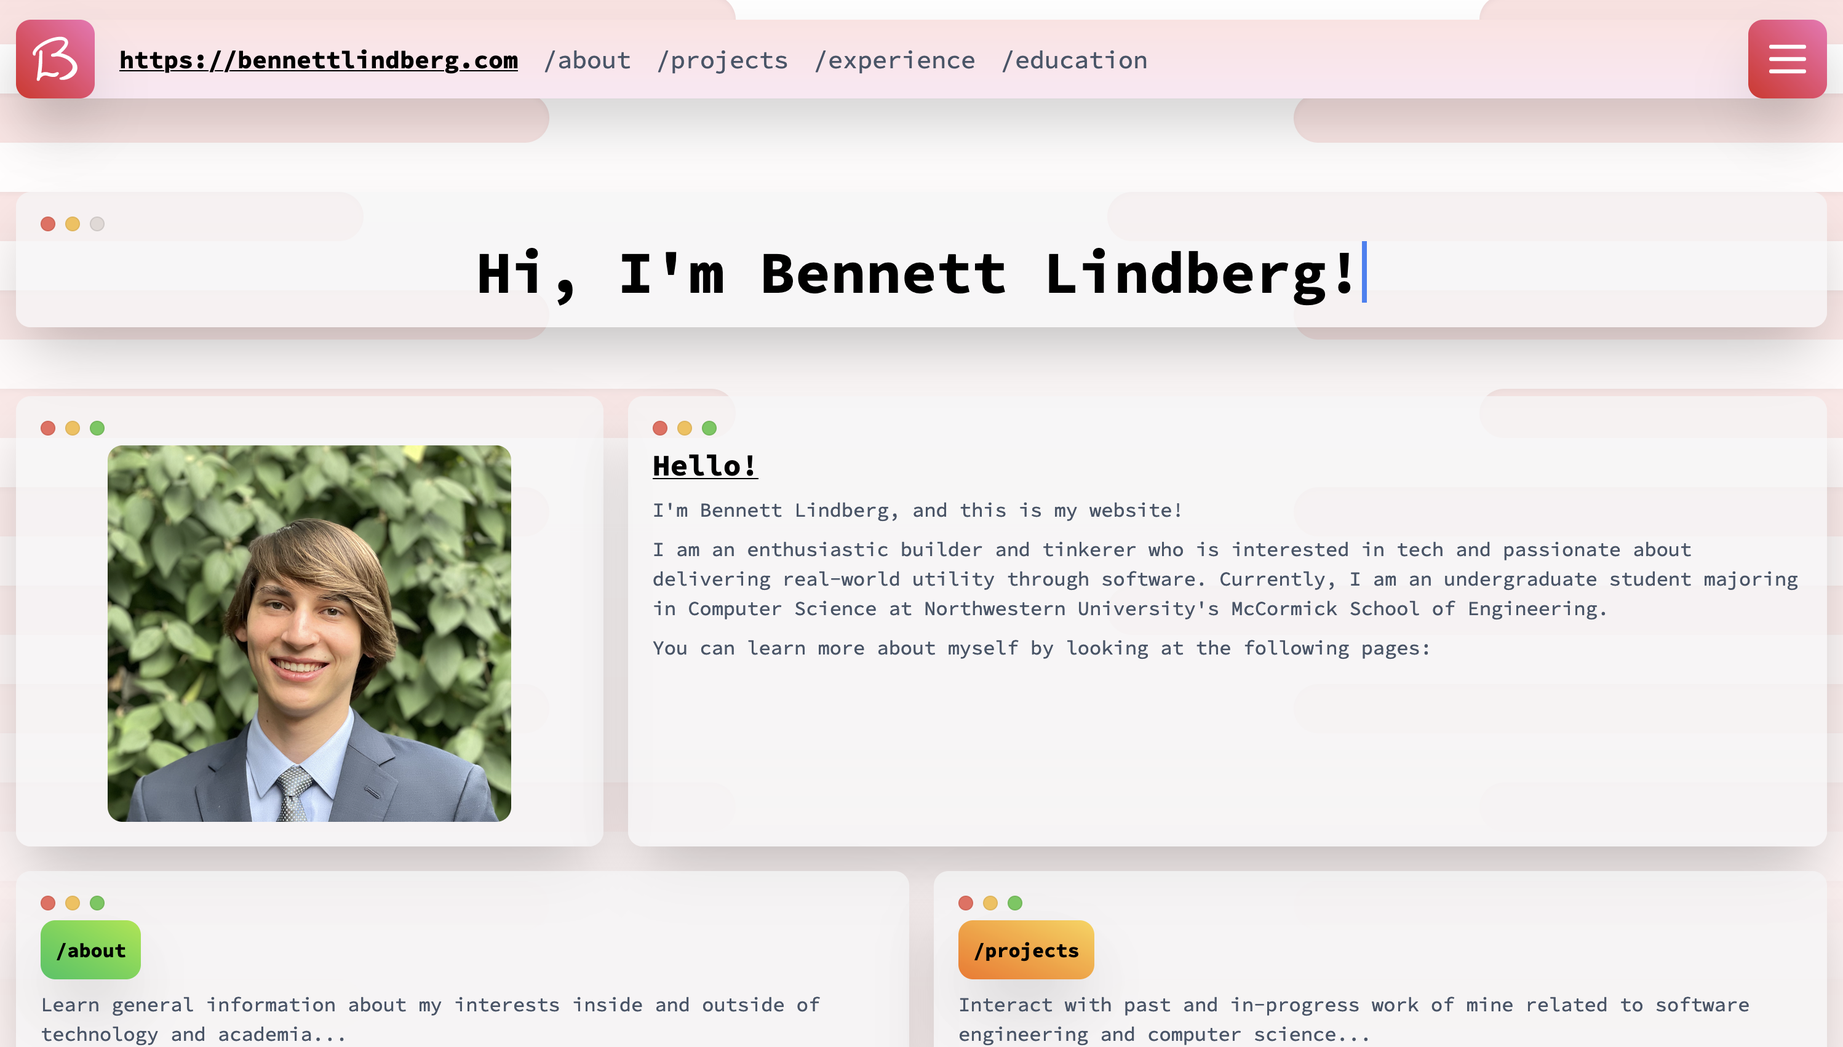
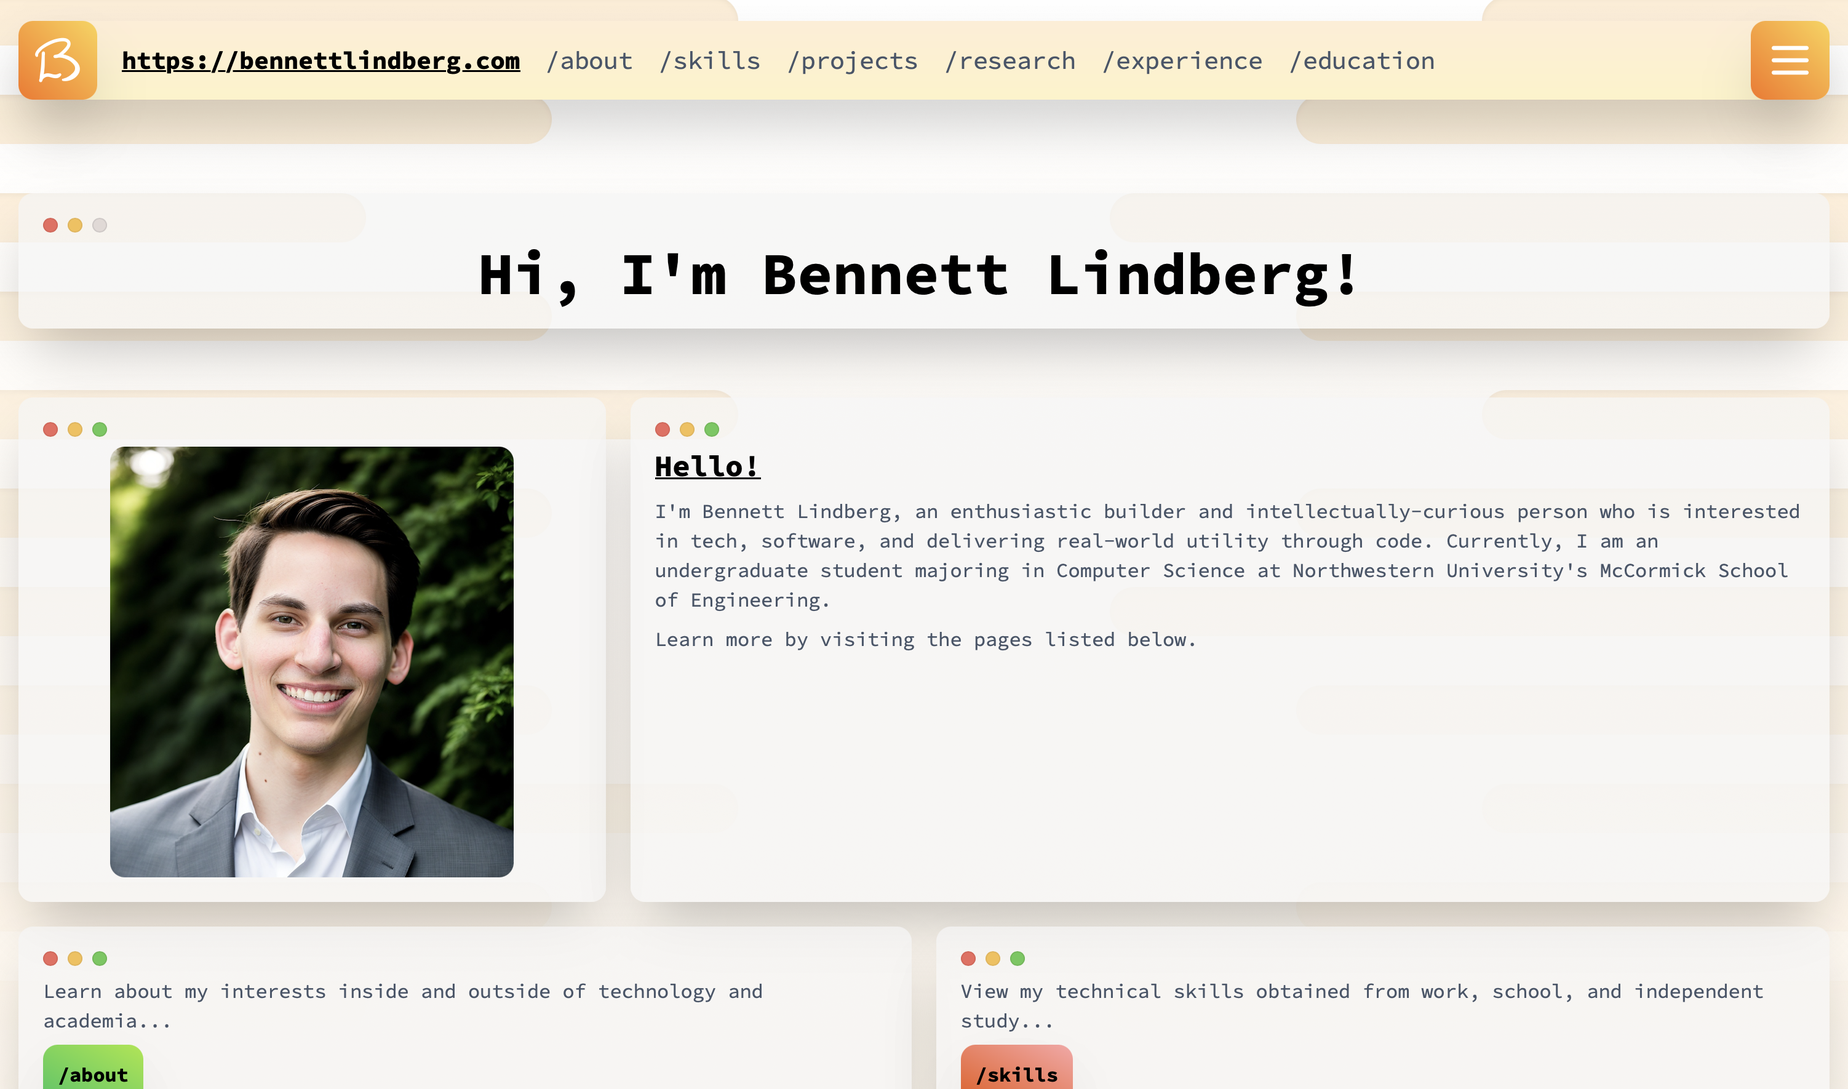
update for winter 2025

diff --git a/src/components/pages/HomePage.tsx b/src/components/pages/HomePage.tsx
@@ -60,18 +60,15 @@ export default function HomePage() {
                             Hello!
                         </Heading>
                         <PlainText>
-                            I'm Bennett Lindberg, and this is my website!
+                            I'm Bennett Lindberg, an enthusiastic builder and intellectually-curious person who is interested in tech, software, and delivering real-world utility through code. Currently, I am an undergraduate student majoring in Computer Science at Northwestern University's McCormick School of Engineering.
                         </PlainText>
                         <PlainText>
-                            I am an enthusiastic builder and intellectually curious person who is interested in tech, software, and delivering real-world utility through my projects. Currently, I am an undergraduate student majoring in Computer Science at Northwestern University's McCormick School of Engineering.
-                        </PlainText>
-                        <PlainText>
-                            You can learn more about myself by looking at the following pages:
+                            Learn more by visiting the pages listed below.
                         </PlainText>
                     </ItemWindow>
                     <ItemWindow standardWidth="1/2">
                         <PlainText>
-                            Learn general information about my interests inside and outside of technology and academia...
+                            Learn about my interests inside and outside of technology and academia...
                         </PlainText>
                         <div className={`font-bold bg-gradient-to-tr from-green-500 to-lime-400 hover:to-green-500 hover:from-lime-400 rounded-xl p-3 mb-2 w-fit shadow-2xl dark:shadow-gray-900`} onClick={() => {window.scrollTo({ top: 0, left: 0, behavior: "smooth" }); navigate("/about");}}>
                             /about
@@ -79,7 +76,7 @@ export default function HomePage() {
                     </ItemWindow>
                     <ItemWindow standardWidth="1/2">
                         <PlainText>
-                            Look at a list of the technical skills I have obtained through academic work, independent study, and previous technical roles...
+                            View my technical skills obtained from work, school, and independent study...
                         </PlainText>
                         <div className={`font-bold bg-gradient-to-tr from-orange-600 to-red-300 hover:to-orange-600 hover:from-red-300 rounded-xl p-3 mb-2 w-fit shadow-2xl dark:shadow-gray-900`} onClick={() => {window.scrollTo({ top: 0, left: 0, behavior: "smooth" }); navigate("/skills");}}>
                             /skills
@@ -87,7 +84,7 @@ export default function HomePage() {
                     </ItemWindow>
                     <ItemWindow standardWidth="1/2">
                         <PlainText>
-                            Interact with past and in-progress works of mine related to software engineering and computer science...
+                            See my past and in-progress design and software engineering projects...
                         </PlainText>
                         <div className={`font-bold bg-gradient-to-tr to-teal-400 from-blue-500 hover:from-teal-400 hover:to-blue-500 rounded-xl p-3 mb-2 w-fit shadow-2xl dark:shadow-gray-900`} onClick={() => {window.scrollTo({ top: 0, left: 0, behavior: "smooth" }); navigate("/projects");}}>
                             /projects
@@ -95,7 +92,7 @@ export default function HomePage() {
                     </ItemWindow>
                     <ItemWindow standardWidth="1/2">
                         <PlainText>
-                            Read my published computer science research and explore previous research-adjacent works of mine...
+                            Explore previous research and research-adjacent works of mine...
                         </PlainText>
                         <div className={`font-bold bg-gradient-to-tr to-emerald-400 from-teal-600 hover:from-emerald-400 hover:to-teal-600 rounded-xl p-3 mb-2 w-fit shadow-2xl dark:shadow-gray-900`} onClick={() => {window.scrollTo({ top: 0, left: 0, behavior: "smooth" }); navigate("/research");}}>
                             /research
@@ -103,7 +100,7 @@ export default function HomePage() {
                     </ItemWindow>
                     <ItemWindow standardWidth="1/2">
                         <PlainText>
-                            See my teaching and software engineering work experience applicable to future roles in technology industries...
+                            View my teaching and software engineering work experience...
                         </PlainText>
                         <div className={`font-bold bg-gradient-to-tr from-red-600 to-pink-400 hover:to-red-600 hover:from-pink-400 rounded-xl p-3 mb-2 w-fit shadow-2xl dark:shadow-gray-900`} onClick={() => {window.scrollTo({ top: 0, left: 0, behavior: "smooth" }); navigate("/experience");}}>
                             /experience
@@ -111,7 +108,7 @@ export default function HomePage() {
                     </ItemWindow>
                     <ItemWindow standardWidth="1/2">
                         <PlainText>
-                            View my education history and academic coursework related to computer science, software development, engineering, and design...
+                            Read about my education history and academic coursework...
                         </PlainText>
                         <div className={`font-bold bg-gradient-to-tr from-violet-700 to-indigo-400 hover:to-violet-700 hover:from-indigo-400 rounded-xl p-3 mb-2 w-fit shadow-2xl dark:shadow-gray-900`} onClick={() => {window.scrollTo({ top: 0, left: 0, behavior: "smooth" }); navigate("/education");}}>
                             /education

diff --git a/src/components/pages/EducationPage.tsx b/src/components/pages/EducationPage.tsx
@@ -75,16 +75,17 @@ export default function EducationPage() {
                     </ItemWindow>
                     <ItemWindow standardWidth="2/3">
                         <PlainText>
-                            Currently, I am completing my B.S. in Computer Science at Northwestern University in the McCormick School of Engineering. I am projected to finish my bachelor's degree in three years. At Northwestern, I have served as a Peer Mentor for several courses in the CS Department and achieved High Honors during my Fall 2022, Winter 2023, Spring 2023, Fall 2023, Winter 2024, and Spring 2024 quarters.
+                            Currently, I am completing my B.S. in Computer Science at Northwestern University in the McCormick School of Engineering. I am projected to finish my bachelor's degree in three years. At Northwestern, I have served as a Peer Mentor for several courses in the CS Department and achieved High Honors during my Fall 2022, Winter 2023, Spring 2023, Fall 2023, Winter 2024, Spring 2024, and Fall 2024 quarters.
                         </PlainText>
                         <SubSubHeading>
-                            Upcoming Coursework (Fall 2024):
+                            Upcoming Coursework (Winter 2025):
                         </SubSubHeading>
                         <PlainText>
                             <BulletList listElements={[
-                                "COMP_SCI 298: Computer Science Research Track",
-                                "COMP_SCI 330: Human-Computer Interaction",
-                                "COMP_SCI 343: Operating Systems",
+                                "COMP_SCI 310: Scalable Software Architectures",
+                                "COMP_SCI 340: Introduction to Computer Networking",
+                                "COMP_SCI 398: Research Track II (Programming Languages)",
+                                "COMP_SCI 496: Programming Languages Seminar (Winter 2025)",
                             ]}></BulletList>
                         </PlainText>
                         <SubSubHeading>
@@ -103,8 +104,8 @@ export default function EducationPage() {
                                 Mathematics:
                             </BulletGroupHeader>
                             <BulletList listElements={[
-                                "COMP_SCI 212: Mathematical Foundations of Computer Science I",
-                                "COMP_SCI 262: Mathematical Foundations of Computer Science II",
+                                "COMP_SCI 212: Formal Proof, Discrete Math, and Graph Theory",
+                                "COMP_SCI 262: Probability and Linear Algebra",
                             ]}></BulletList>
                             <BulletGroupHeader>
                                 Systems:
@@ -112,6 +113,7 @@ export default function EducationPage() {
                             <BulletList listElements={[
                                 "COMP_ENG 203: Introduction to Computer Engineering",
                                 "COMP_SCI 213: Introduction to Computer Systems",
+                                "COMP_SCI 343: Operating Systems",
                             ]}></BulletList>
                             <BulletGroupHeader>
                                 Algorithms:
@@ -124,14 +126,16 @@ export default function EducationPage() {
                                 Programming Languages:
                             </BulletGroupHeader>
                             <BulletList listElements={[
+                                "COMP_SCI 298: Research Track I (Programming Languages)",
                                 "COMP_SCI 321: Programming Languages",
                                 "COMP_SCI 424: Dynamics of Programming Languages",
-                                "COMP_SCI 496: Programming Languages Seminar",
+                                "COMP_SCI 496: Programming Languages Seminar (Spring 2024)",
                             ]}></BulletList>
                             <BulletGroupHeader>
                                 Miscellaneous:
                             </BulletGroupHeader>
                             <BulletList listElements={[
+                                "COMP_SCI 330: Human-Computer Interaction",
                                 "COMP_SCI 348: Artificial Intelligence",
                                 "COMP_SCI 396: Foundations of Security",
                             ]}></BulletList>
@@ -161,6 +165,13 @@ export default function EducationPage() {
                                 "DSGN 106-1: Design Thinking and Communication I",
                                 "DSGN 106-2: Design Thinking and Communication II",
                                 "DSGN 220: Design Sketching",
+                            ]}></BulletList>
+                            <BulletGroupHeader>
+                                Art:
+                            </BulletGroupHeader>
+                            <BulletList listElements={[
+                                "ART 210: Introduction to Drawing",
+                                "ART 220: Introduction to Painting",
                             ]}></BulletList>
                         </PlainText>
                     </ItemWindow>

diff --git a/src/components/pages/AboutPage.tsx b/src/components/pages/AboutPage.tsx
@@ -56,13 +56,13 @@ export default function AboutPage() {
                     </ItemWindow>
                     <ItemWindow standardWidth="2/3">
                         <PlainText>
-                            Hi! I'm Bennett Lindberg, a full-stack software engineer who is passionate about improving lives by constructing productive tools and streamlining procedures. Always enthusiastic about building, designing, and enhancing my work, I am a spirited engineer, programmer, and learner. Currently, I am an undergraduate Computer Science major at Northwestern University in the McCormick School of Engineering.
+                            Hi! I'm Bennett Lindberg, a full-stack software engineer who is passionate about improving lives by constructing productive tools and streamlining procedures. Currently, I am an undergraduate Computer Science major at Northwestern University in the McCormick School of Engineering. This summer, I will be joining Motorola Solutions' Secure Products Group as a full-time Software Engineer.
                         </PlainText>
                         <PlainText>
-                            I enjoy developing software applications for others to use, exploring new programming languages and technologies, and expanding my range of knowledge within the broader computer science field. I am often knee-deep reading through a textbook or technical documentation and would describe myself as focused, detail-attentive, and hard-working.
+                            I enjoy developing software applications for others to use, exploring new programming languages and technologies, and expanding my knowledge within the broader computer science field. I am focused, detail-attentive, and hard-working.
                         </PlainText>
                         <PlainText>
-                            Outside of computer science and software development, I enjoy solving logic puzzles, playing card games, swimming, watching Formula 1 races, talking with friends, and learning new things. I also enjoy learning about geography and have a bucket list of places to which I'd like to travel!
+                            Outside of computer science and software development, I enjoy creating digital art, watching Formula 1 races, playing card games, going to the gym, and learning new things. I am also interested in design, architecture, and geography, and I have a bucket list of places to which I'd like to travel.
                         </PlainText>
                     </ItemWindow>
                     <ItemWindow standardWidth="1/2">
@@ -70,7 +70,7 @@ export default function AboutPage() {
                             Contact Me
                         </SubHeading>
                         <PlainText>
-                            Feel free to contact me directly on LinkedIn or via the contact information associated with my LinkedIn profile!
+                            Feel free to contact me directly on LinkedIn or via the contact information associated with my LinkedIn profile.
                         </PlainText>
                         <div className={`font-bold bg-gradient-to-tr to-blue-400 from-blue-700 hover:from-blue-400 hover:to-blue-700 rounded-xl p-3 mb-2 w-fit shadow-2xl dark:shadow-gray-900`}>
                             <a href="https://www.linkedin.com/in/bennett-lindberg/" target="_blank">LinkedIn</a>
@@ -81,7 +81,7 @@ export default function AboutPage() {
                             Learn More
                         </SubHeading>
                         <PlainText>
-                            Visit the other pages of this site to learn more about myself or view my GitHub profile!
+                            Visit the other pages of this site to learn more about myself or view my GitHub profile.
                         </PlainText>
                         <div className="flex flex-row gap-x-2 flex-wrap">
                             <div className={`font-bold bg-gradient-to-tr from-orange-600 to-red-300 hover:to-orange-600 hover:from-red-300 rounded-xl p-3 mb-2 w-fit shadow-2xl dark:shadow-gray-900`} onClick={() => { window.scrollTo({ top: 0, left: 0, behavior: "smooth" }); navigate("/skills"); }}>

diff --git a/src/components/pages/ExperiencePage.tsx b/src/components/pages/ExperiencePage.tsx
@@ -103,10 +103,10 @@ export default function ExperiencePage() {
                     </ItemWindow>
                     <ItemWindow standardWidth="2/3">
                         <PlainText>
-                            This summer, I am working at Motorola Solutions as a Software Engineering Intern. Alongside my co-workers in the Secure Products Group at Motorola Solutions, I develop full-stack applications that help ensure critical communications are safe and secure.
+                            During the 2024 Summer, I worked at Motorola Solutions as a Software Engineering Intern with the Secure Products Group. I developed full-stack applications that ensure safe and secure critical communications.
                         </PlainText>
                         <PlainText>
-                            During my time at Motorola Solutions, I have worked in an Agile software development environment using a variety of technologies and paradigms, including Reactive Programming, Angular front-end development, Spring Boot application development, Apache Kafka high-volume messaging, and REST API development involving Server-Sent Events.
+                            During my internship, I worked in an Agile software development environment using a variety of technologies and paradigms, including Reactive Programming, Angular, Spring Boot, Apache Kafka, REST APIs, CI/CD pipelines, and PostgreSQL.
                         </PlainText>
                         <div className="flex flex-row flex-wrap gap-x-2 mt-2">
                             <div className={`font-bold bg-gradient-to-tr to-teal-400 from-blue-500 hover:from-teal-400 hover:to-blue-500 rounded-xl p-3 mb-2 w-fit shadow-2xl dark:shadow-gray-900`}>
@@ -123,19 +123,20 @@ export default function ExperiencePage() {
                                 Northwestern University
                             </SubHeading>
                             <PlainText>
-                                Computer Science Department Peer Mentor • January-June 2024
+                                Computer Science Department Peer Mentor • January 2024-Present
                             </PlainText>
                         </div>
                     </ItemWindow>
                     <ItemWindow standardWidth="2/3">
                         <PlainText>
-                            I currently work as a Peer Mentor in the Computer Science Department at Northwestern University. In this role, I have functioned as an undergraduate teaching assistant for several of the department's courses. My responsibilities include answering student questions, hosting office hours, and grading assignments and exams.
+                            I currently work as a Peer Mentor in the Computer Science Department at Northwestern University. In this role, I have functioned as an undergraduate teaching assistant for several of the department's courses. My responsibilities include hosting office hours, grading assignments and exams, and authoring new problem sets.
                         </PlainText>
                         <PlainText>
                             I have assisted with teaching the following courses: 
                             <BulletList listElements={[
                                 "COMP_SCI 214: Data Structures and Algorithms (Winter 2024)",
-                                "COMP_SCI 396: Foundations of Security (Spring 2024)"
+                                "COMP_SCI 396: Foundations of Security (Spring 2024)",
+                                "COMP_SCI 321: Programming Languages (Fall 2024, Winter 2025)",
                             ]}></BulletList>
                         </PlainText>
                         <PlainText>

diff --git a/src/components/pages/ProjectsPage.tsx b/src/components/pages/ProjectsPage.tsx
@@ -105,9 +105,6 @@ export default function ProjectsPage() {
                             Learn More:
                         </SubSubHeading>
                         <div className="flex flex-row flex-wrap gap-x-2 mt-2">
-                            <div className={`font-bold bg-gradient-to-tr to-teal-400 from-blue-500 hover:from-teal-400 hover:to-blue-500 rounded-xl p-3 mb-2 w-fit shadow-2xl dark:shadow-gray-900`}>
-                                <a href="https://swimeeter.com" target="_blank">Live Website</a>
-                            </div>
                             <div className={`font-bold bg-gradient-to-tr from-gray-500 to-slate-300 hover:to-gray-500 hover:from-slate-300 rounded-xl p-3 mb-2 w-fit shadow-2xl dark:shadow-gray-900`}>
                                 <a href="https://github.com/bennettlindberg/Swimeeter" target="_blank">GitHub Repository</a>
                             </div>
@@ -153,9 +150,6 @@ export default function ProjectsPage() {
                             Learn More:
                         </SubSubHeading>
                         <div className="flex flex-row flex-wrap gap-x-2 mt-2">
-                            <div className={`font-bold bg-gradient-to-tr from-violet-700 to-indigo-400 hover:to-violet-700 hover:from-indigo-400 rounded-xl p-3 mb-2 w-fit shadow-2xl dark:shadow-gray-900`}>
-                                <a href="https://safesecuritynu.com" target="_blank">Live Website</a>
-                            </div>
                             <div className={`font-bold bg-gradient-to-tr from-gray-500 to-slate-300 hover:to-gray-500 hover:from-slate-300 rounded-xl p-3 mb-2 w-fit shadow-2xl dark:shadow-gray-900`}>
                                 <a href="https://github.com/SafeSecurityNU/safesecuritynu.github.io" target="_blank">GitHub Repository</a>
                             </div>

diff --git a/src/components/blocks/FooterBar.tsx b/src/components/blocks/FooterBar.tsx
@@ -19,7 +19,7 @@ export default function FooterBar() {
     const siteInfoText =
         <>
             <PlainText>
-                Site Version: 1.3.4
+                Site Version: 1.3.5
             </PlainText>
             <PlainText>
                 Aside from the "BL" logo seen on the left side of the navigation bar, all SVG icons used on this site were sourced from the <a href="https://www.svgrepo.com/collection/dazzle-line-icons/" target="_blank" className="underline hover:font-bold">Dazzle Line Icons</a> collection, a set of SVG icons created by <a href="https://dazzleui.gumroad.com/l/dazzleiconsfree?ref=svgrepo.com" target="_blank" className="underline hover:font-bold">Dazzle UI</a> under the <a href="https://creativecommons.org/licenses/by/4.0/" target="_blank" className="underline hover:font-bold">CC Attribution License</a> via <a href="https://www.svgrepo.com/" target="_blank" className="underline hover:font-bold">SVG Repo</a>.
